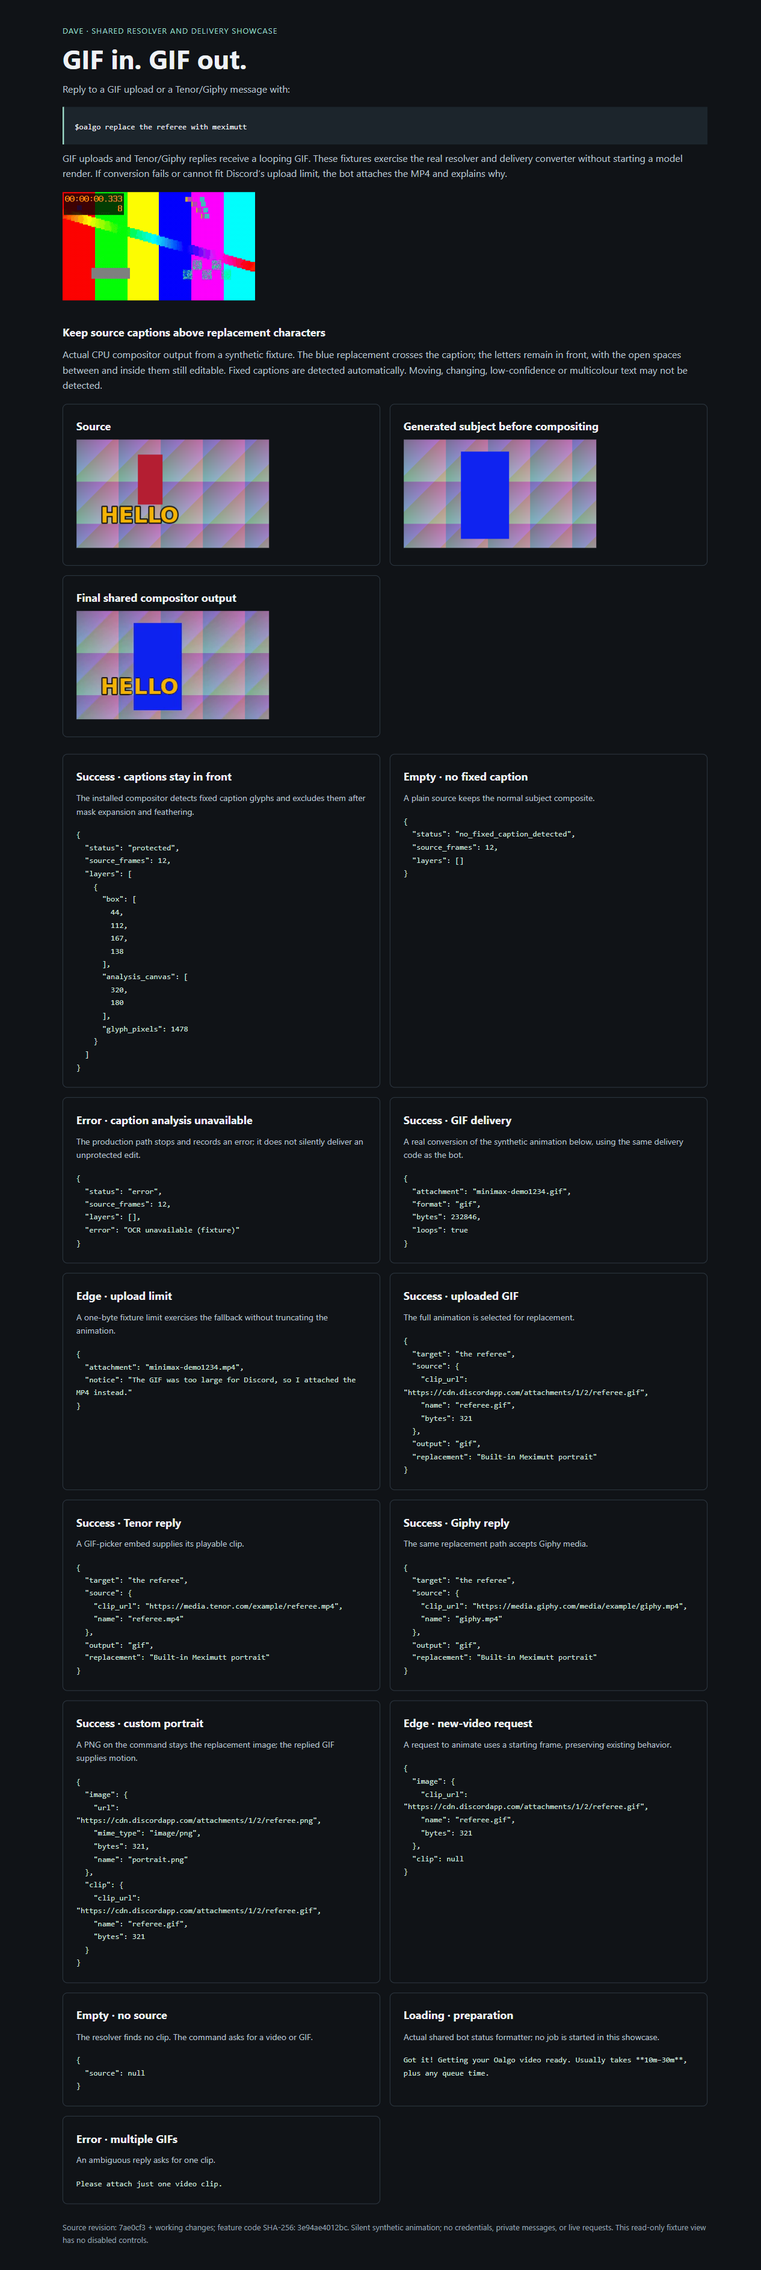
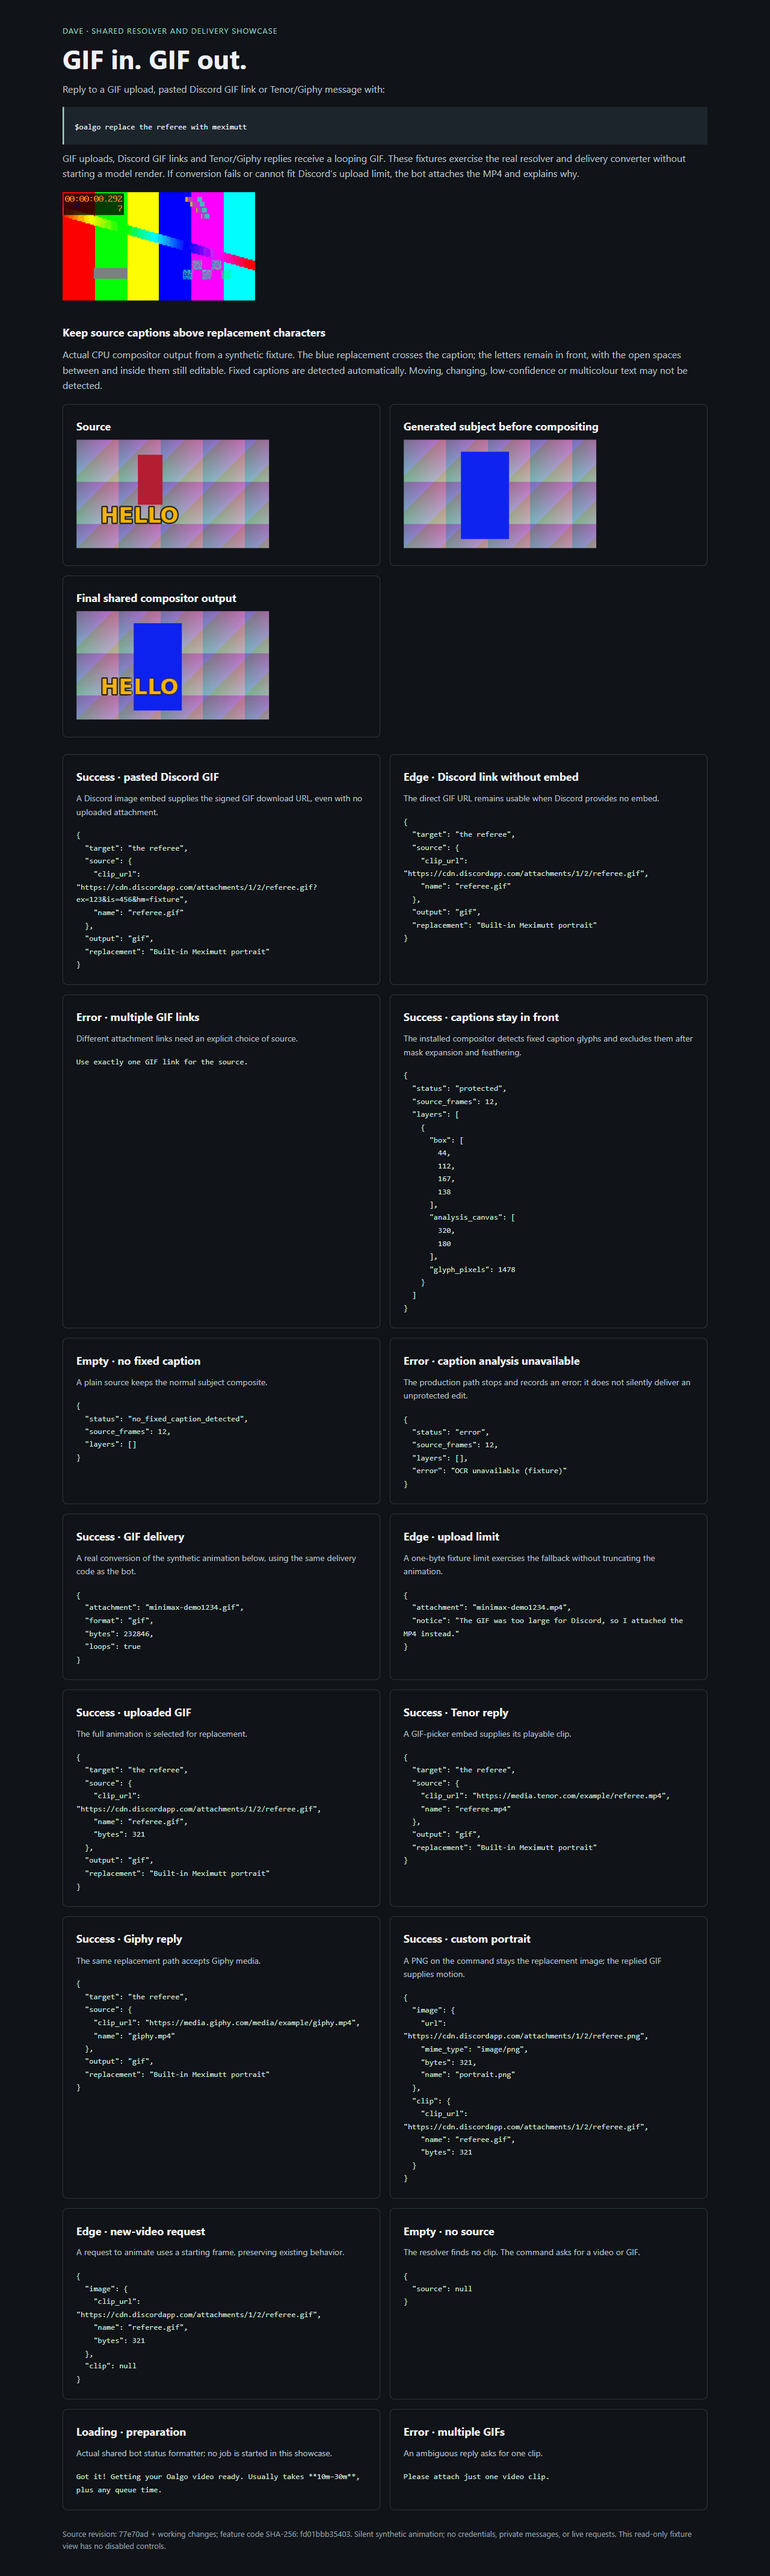
Recognize pasted Discord GIF links in video edit replies

diff --git a/lib/GifVideo.ts b/lib/GifVideo.ts
@@ -15,10 +15,22 @@ function safeUrl(value: string): URL | null {
     } catch { return null; }
 }
 
+function isDiscordGif(url: URL): boolean {
+    return ['cdn.discordapp.com', 'media.discordapp.net'].includes(url.hostname)
+        && /^\/attachments\/\d+\/\d+\/[^/]+\.gif$/i.test(url.pathname);
+}
+
 /** Restrict downloads to media files on the providers' actual CDNs. */
 export function isGifVideoUrl(value: string): boolean {
     const url = safeUrl(value);
-    return Boolean(url && MEDIA_HOSTS.has(url.hostname) && /\.(?:gif|mp4|webm)$/i.test(url.pathname));
+    return Boolean(url && (isDiscordGif(url)
+        || (MEDIA_HOSTS.has(url.hostname) && /\.(?:gif|mp4|webm)$/i.test(url.pathname))));
+}
+
+/** Discord's original and signed/proxied embed URLs identify the same attachment. */
+function gifIdentity(value: string): string {
+    const url = safeUrl(value)!;
+    return isDiscordGif(url) ? `discord:${url.pathname}` : gifPage(value) || url.toString();
 }
 
 function gifPage(value: string): string | null {
@@ -50,6 +62,7 @@ type GifMessage = { content?: string; embeds?: ReadonlyArray<{
     url?: string | null;
     video?: { url?: string | null } | null;
     image?: { url?: string | null } | null;
+    thumbnail?: { url?: string | null } | null;
 }> };
 
 /** Prefer Discord's playable embed; fetch public share-page metadata when it is absent. */
@@ -59,15 +72,23 @@ export async function gifVideoFromMessage(message: GifMessage, fetcher: typeof f
     const embeds = message.embeds || [];
     if (!candidates.length) {
         for (const embed of embeds) {
-            const value = [embed.url, embed.video?.url, embed.image?.url]
+            const value = [embed.url, embed.video?.url, embed.image?.url, embed.thumbnail?.url]
                 .find(value => value && (gifPage(value) || isGifVideoUrl(value)));
             if (value) candidates.push(value);
         }
     }
-    const links = [...new Set(candidates.map(value => gifPage(value) || safeUrl(value)!.toString()))];
+    const links = [...new Map(candidates.map(value => [gifIdentity(value), gifPage(value) || safeUrl(value)!.toString()])).values()];
     if (!links.length) return null;
-    if (links.length > 1) throw new Error('Use exactly one Tenor/Giphy GIF for the source.');
+    if (links.length > 1) throw new Error('Use exactly one GIF link for the source.');
     const link = links[0];
+    if (isDiscordGif(safeUrl(link)!)) {
+        // Pasted attachment links may lack the signature required for downloading.
+        // Discord supplies a signed URL in its image embed's thumbnail instead.
+        const matching = [...embeds.flatMap(embed => [embed.video?.url, embed.image?.url, embed.thumbnail?.url, embed.url]), ...candidates]
+            .filter((value): value is string => Boolean(value && isGifVideoUrl(value) && gifIdentity(value) === gifIdentity(link)));
+        const signed = matching.find(value => ['ex', 'is', 'hm'].every(key => safeUrl(value)!.searchParams.has(key)));
+        return clip(signed || link);
+    }
     const direct = clip(link);
     if (direct) return direct;
     for (const embed of embeds) {

diff --git a/lib/VideoGeneration.ts b/lib/VideoGeneration.ts
@@ -1344,7 +1344,7 @@ export async function handleVideoRequest(
         const sources = resolved.sources;
         postText = 'postText' in sources ? sources.postText || '' : '';
         sourceVideo = sources.clip;
-        if (replacement && !sourceVideo) throw new Error('Attach a video or include a Twitter/X or YouTube video link to edit. You can also reply to a message containing one.');
+        if (replacement && !sourceVideo) throw new Error('Attach a video or GIF, or include a Discord GIF, Tenor/Giphy, Twitter/X or YouTube link to edit. You can also reply to a message containing one.');
         attachedSourceImage = sources.image;
         sourceAudio = videoSourceAudioFromMessages(msg, referencedMessage);
         // An explicit song attachment wins; otherwise extract the selected clip's soundtrack.

diff --git a/docs/showcases/gif-video/README.md b/docs/showcases/gif-video/README.md
@@ -21,6 +21,7 @@ It does not post to Discord or run a model render.
 
 The reviewed [desktop capture](desktop.png) is 1280 CSS pixels wide; the
 [mobile capture](mobile.png) is 390 CSS pixels wide. Both include upload,
+pasted Discord GIF links with signed thumbnails, missing embeds, ambiguous links,
 Tenor, Giphy, custom portrait, starting-frame, empty, preparation, GIF delivery,
 upload-limit fallback and error states. Caption cases show successful protection,
 no detected caption, and an actual injected OCR failure with its production
@@ -29,11 +30,11 @@ disabled states. Neither viewport
 has horizontal overflow. The shared Chrome profile logged an unrelated wallet
 extension injection error; the page itself has no client JavaScript.
 
-Capture source: base revision `7ae0cf3` plus caption protection. The concatenated
+Capture source: base revision `77e70ad` plus Discord GIF link support. The concatenated
 `GifVideo.ts`, `VideoGeneration.ts`, `VideoSourceClip.ts` and
 `VideoSourceImage.ts`, followed by `VideoGifDelivery.ts`, `VideoProtocol.ts`
 and `VideoBroker.ts`, then `desktop/video_edit_captions.py` and
-`desktop/video-edit-captions.patch`, SHA-256 prefix is `3e94ae4012bc`, also displayed in the
+`desktop/video-edit-captions.patch`, SHA-256 prefix is `fd01bbb35403`, also displayed in the
 captures. This fingerprints the exact input implementation independently of the
 later commit that stores these screenshots.
 
@@ -49,7 +50,10 @@ passing (including eight new caption tests). GIF-output checks
 cover infinite looping, retained duration/motion, file-size adaptation, unchanged
 original MP4/audio, cache invalidation after regeneration, explicit MP4 fallback,
 matching Discord filenames and the private workflow button. All 64 targeted
-input, delivery and broker regression tests passed.
+input, delivery and broker regression tests passed for the preceding caption change.
+The Discord GIF link change passed the build and all 12 targeted GIF input and
+delivery tests, including signed CDN/proxy selection, matching attachment identity,
+embed-only messages, missing embeds, rejected hosts, ambiguity and reply precedence.
 
 The reported `e02575b8` ending artifacts were traced to the public Tenor source
 `https://tenor.com/view/repost-ddmf-penalty-flag-referee-gif-16152028`.
